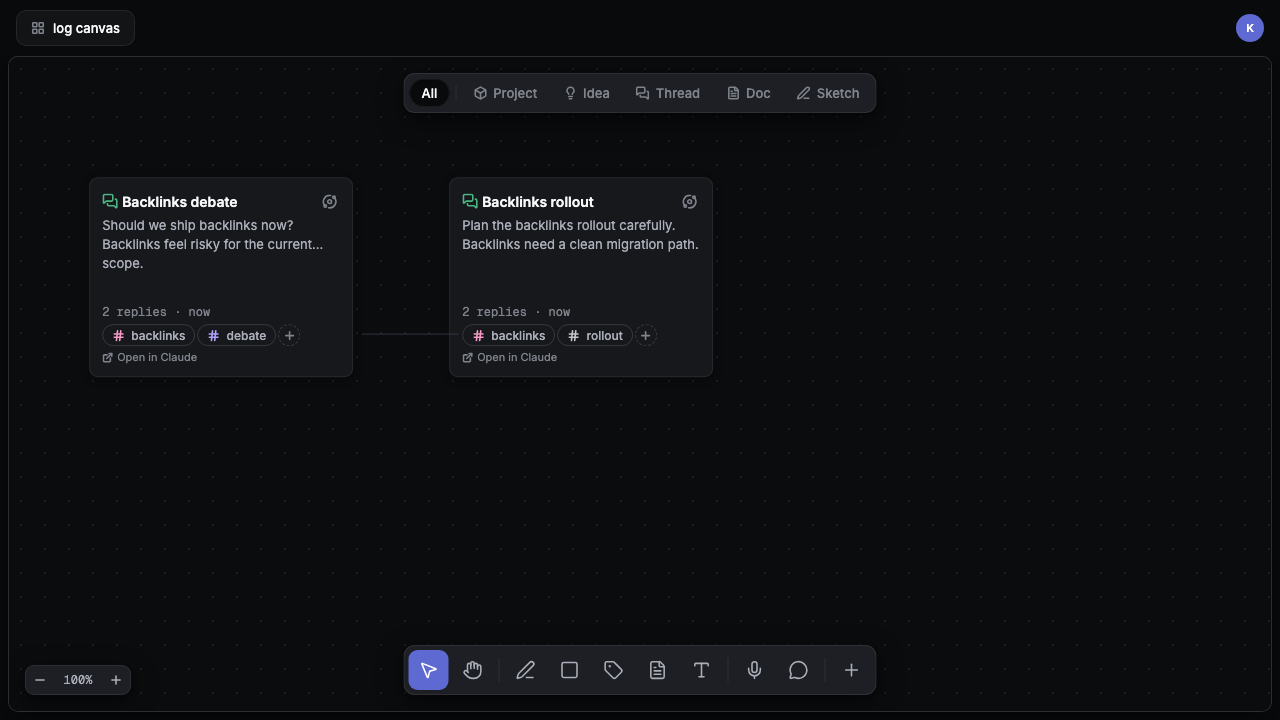
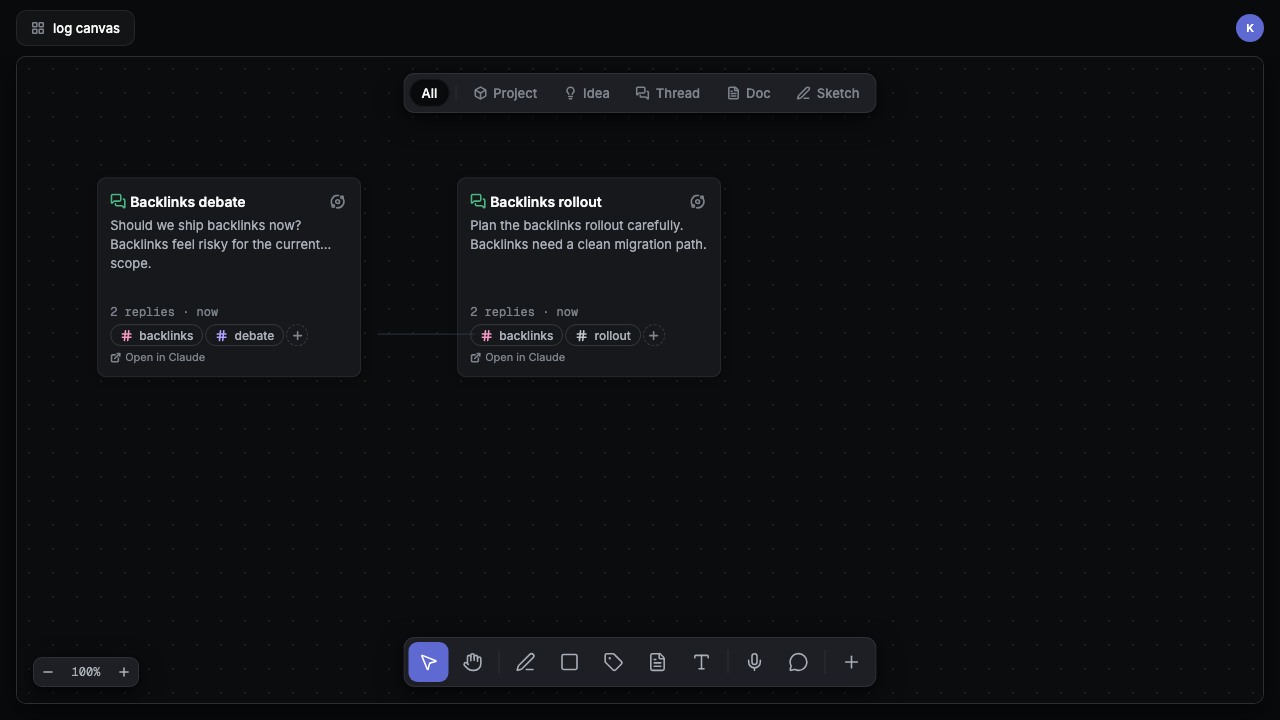
fix: canvas margins + camera-scaled dot grid
- Canvas panel inset 8px → 16px on sides/bottom, matching the nav's 16px
  horizontal padding.
- Dot-grid background is now tied to tldraw's camera: backgroundSize scales
  with camera.z (zoom in → dots spread, zoom out → dots tighten) and
  backgroundPosition offsets with camera.x/y so the grid pans with content.
  Dot size stays fixed at --canvas-dot-size.

Verified: grid gap 24px @ z1 → 48px @ z2 → 12px @ z0.5. tsc clean, 436
vitest pass; full-page visual snapshots regenerated for the wider inset.

diff --git a/src/App.tsx b/src/App.tsx
@@ -653,8 +653,16 @@ function GlobalKeyboardShortcuts() {
 
 // ── App ──────────────────────────────────────────────────────────────────────
 
-// Dot-grid canvas background (P2). Painted behind shapes in screen space.
+// Base dot spacing in page units (mirrors --canvas-dot-gap).
+const BASE_DOT_GAP = 24
+
+// Dot-grid canvas background (P2). Tied to tldraw's camera: the gap scales with
+// zoom and the pattern offsets with pan, so the grid tracks the content. The dot
+// size itself stays fixed at --canvas-dot-size.
 function CanvasBackground() {
+  const editor = useEditor()
+  const camera = useValue('camera', () => editor.getCamera(), [editor])
+  const gap = BASE_DOT_GAP * camera.z
   return (
     <div
       style={{
@@ -663,7 +671,8 @@ function CanvasBackground() {
         background: 'var(--bg-canvas)',
         backgroundImage:
           'radial-gradient(circle, var(--canvas-dot) var(--canvas-dot-size), transparent var(--canvas-dot-size))',
-        backgroundSize: 'var(--canvas-dot-gap) var(--canvas-dot-gap)',
+        backgroundSize: `${gap}px ${gap}px`,
+        backgroundPosition: `${camera.x}px ${camera.y}px`,
       }}
     />
   )
@@ -872,11 +881,12 @@ export default function App() {
             {/* App shell — deepest backdrop */}
             <div style={{ position: 'fixed', inset: 0, background: 'var(--bg-app)', overflow: 'hidden' }}>
               <NavBar />
-              {/* Canvas panel — inset below the 56px nav, hairline-framed, dot-grid surface */}
+              {/* Canvas panel — inset below the 56px nav, hairline-framed, dot-grid surface.
+                  16px sides/bottom to match the nav's 16px horizontal padding. */}
               <div
                 style={{
                   position: 'absolute',
-                  inset: '56px 8px 8px',
+                  inset: '56px 16px 16px',
                   border: '1px solid var(--border-2)',
                   borderRadius: 'var(--radius-4)',
                   boxShadow: 'var(--shadow-canvas)',